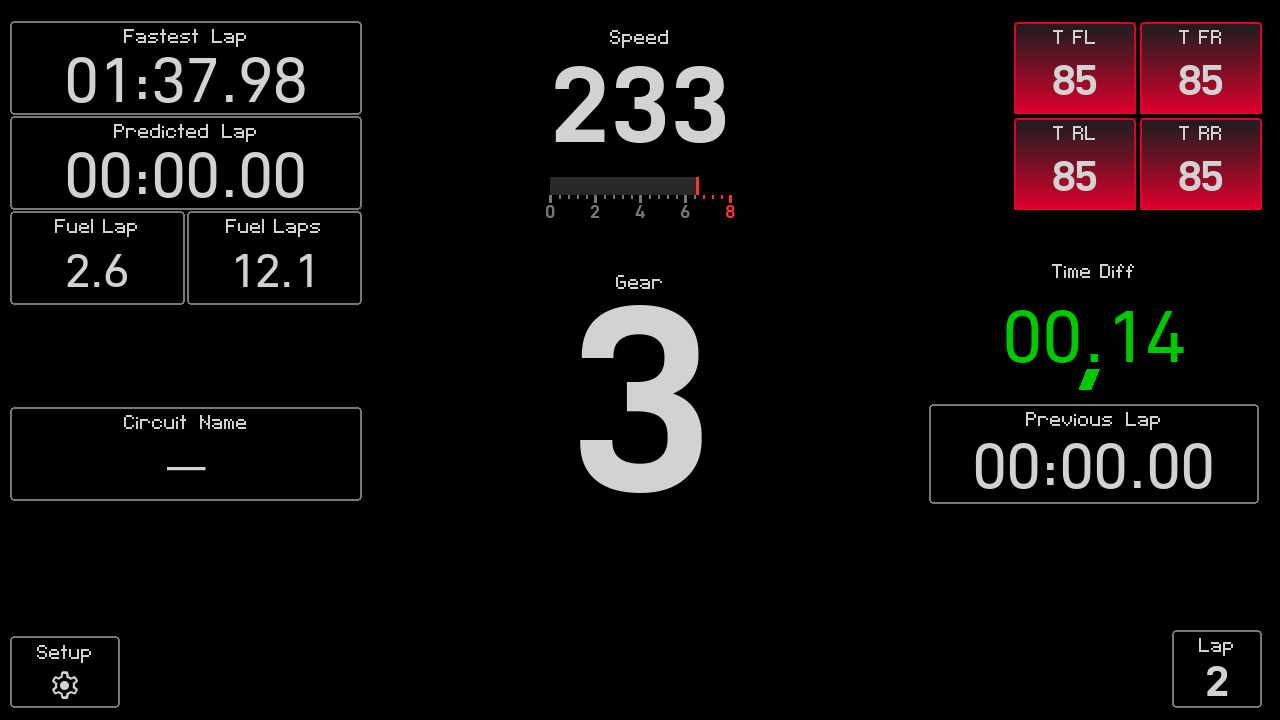
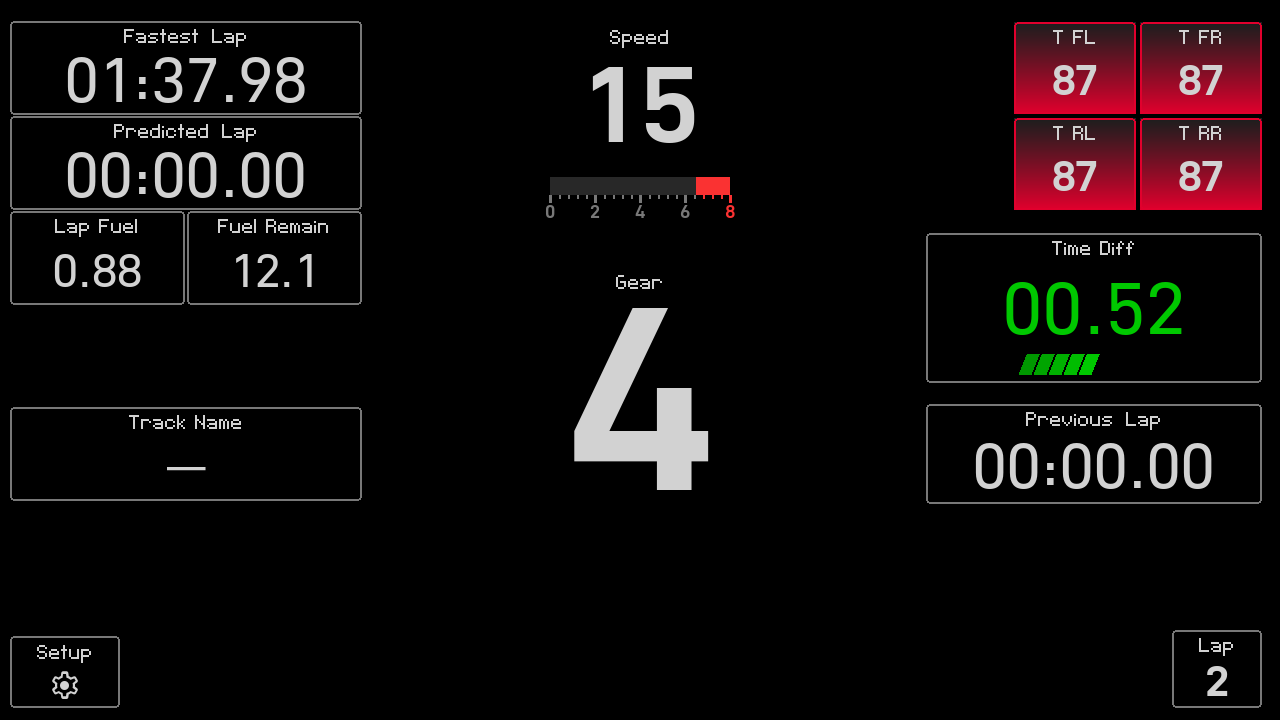
docs: credit Kunos for the ACC trademarks and combine the Pi image badges

diff --git a/README.md b/README.md
@@ -5,16 +5,16 @@
 # Revokyte
 
 [![Build Status](https://github.com/chrshdl/instrument-cluster-os/actions/workflows/ci.yml/badge.svg?event=push)](https://github.com/chrshdl/instrument-cluster-os/actions/workflows/ci.yml)
-[![Download Raspberry Pi 4 64 Image](https://img.shields.io/badge/download-pi4--64--image-c51d4a?logo=raspberry-pi&logoColor=white)](https://github.com/chrshdl/instrument-cluster-os/releases)
+[![Download Raspberry Pi Image](https://img.shields.io/badge/download-pi4--64%20%C2%B7%20pi5-c51d4a?logo=raspberry-pi&logoColor=white)](https://github.com/chrshdl/instrument-cluster-os/releases)
 [![Discord](https://img.shields.io/discord/1452332495683981478?label=chat&logo=discord&color=5865F2)](https://discord.gg/dEQJSuva7K)
 
 </div>
 
-Revokyte is an embedded sim racing instrument cluster built with Python and pygame. It receives live telemetry from **Gran Turismo 7** or **Assetto Corsa Competizione** over UDP and renders a real-time dashboard at 60 fps — designed for readability and reliability while racing.
+Revokyte is an embedded sim racing instrument cluster built with Python and pygame that is designed for readability and reliability while racing. It receives live telemetry from Gran Turismo 7 or Assetto Corsa Competizione over UDP and renders a real-time dashboard at 60 fps.
 
-Support for each game comes from a small, separately-released **feed program** that reads the game's telemetry and re-emits it as NDJSON to the cluster (GT7 via the [granturismo](https://github.com/chrshdl/granturismo) proxy; ACC via its native Broadcasting API). You pick a game in the settings and the device installs the matching feed — the cluster itself stays game-agnostic. ACC's Broadcasting API doesn't expose engine RPM, tyre temperatures, or fuel, so those gauges are inactive in ACC mode.
+Support for each game comes from a small, separately-released _feed program_ that reads the game's telemetry and re-emits it as NDJSON to the cluster (GT7 via the [granturismo](https://github.com/chrshdl/granturismo) proxy; ACC via its native Broadcasting API). You pick a game in the settings and the device installs the matching feed — the cluster itself stays game-agnostic. ACC's Broadcasting API doesn't expose engine RPM, tyre temperatures, or fuel, so those gauges are inactive in ACC mode.
 
-Runs on a Raspberry Pi 4 with a 720×1280 touch display, or on your desktop in demo mode (no console required).
+It runs on a Raspberry Pi 4 or 5 with a 720×1280 touch display, or on your desktop machine in demo mode.
 
 <div align="center">
 
@@ -36,7 +36,7 @@ Runs on a Raspberry Pi 4 with a 720×1280 touch display, or on your desktop in d
 - Best, previous, and predicted lap times
 - Automatic track identification from GT7 position data (ACC reports the track name directly)
 
-The delta widget follows professional motorsport dashboard conventions (MoTEC, AiM): green when ahead, red when behind, with trend dashes showing magnitude. A sample-and-hold filter (200 ms refresh) plus hysteresis (20 ms dead-band) keeps the digits stable and glanceable instead of flickering.
+The delta widget follows professional motorsport dashboard conventions: green when ahead, red when behind, with trend dashes showing magnitude. A sample-and-hold filter plus hysteresis keeps the digits stable.
 
 ## Quick start
 
@@ -178,13 +178,13 @@ Press F5 to start debugging.
 
 For a turnkey setup that boots straight into the dash, download the prebuilt Raspberry Pi image from the [instrument-cluster-os releases](https://github.com/chrshdl/instrument-cluster-os/releases) and flash it to an SD card (e.g. with Raspberry Pi Imager).
 
-[![Download Raspberry Pi 4 64 Image](https://img.shields.io/badge/download-pi4--64--image-c51d4a?logo=raspberry-pi&logoColor=white)](https://github.com/chrshdl/instrument-cluster-os/releases)
+[![Download Raspberry Pi Image](https://img.shields.io/badge/download-pi4--64%20%C2%B7%20pi5-c51d4a?logo=raspberry-pi&logoColor=white)](https://github.com/chrshdl/instrument-cluster-os/releases)
 
 ## Legal
 
 This project is created for educational and personal use and provided without warranty of any kind, express or implied. Use at your own risk.
 
-All trademarks, logos, and brand names are the property of their respective owners. *Gran Turismo*, *Gran Turismo 7*, *GT7*, and *PlayStation* are trademarks or registered trademarks of *Sony Interactive Entertainment Inc.* and *Polyphony Digital Inc.* This project is independent and not affiliated with or endorsed by them.
+All trademarks, logos, and brand names are the property of their respective owners. *Gran Turismo*, *Gran Turismo 7*, *GT7*, and *PlayStation* are trademarks or registered trademarks of *Sony Interactive Entertainment Inc.* and *Polyphony Digital Inc.* *Assetto Corsa Competizione* and *ACC* are trademarks or registered trademarks of *Kunos Simulazioni S.r.l.* This project is independent and not affiliated with or endorsed by any of them.
 
 ## License
 
